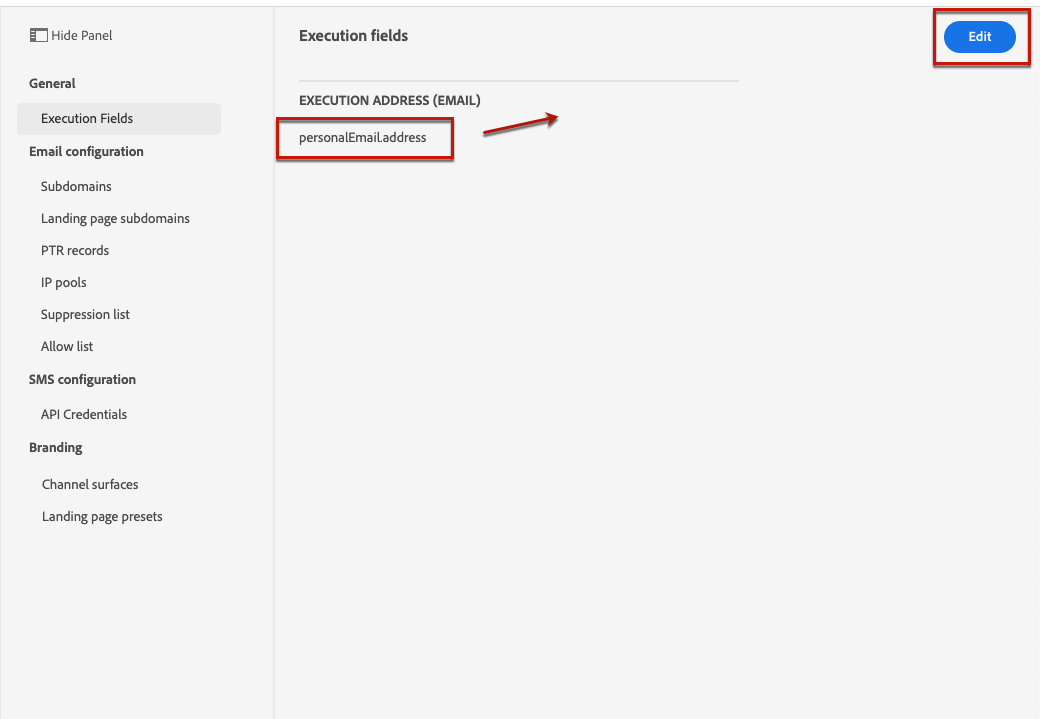
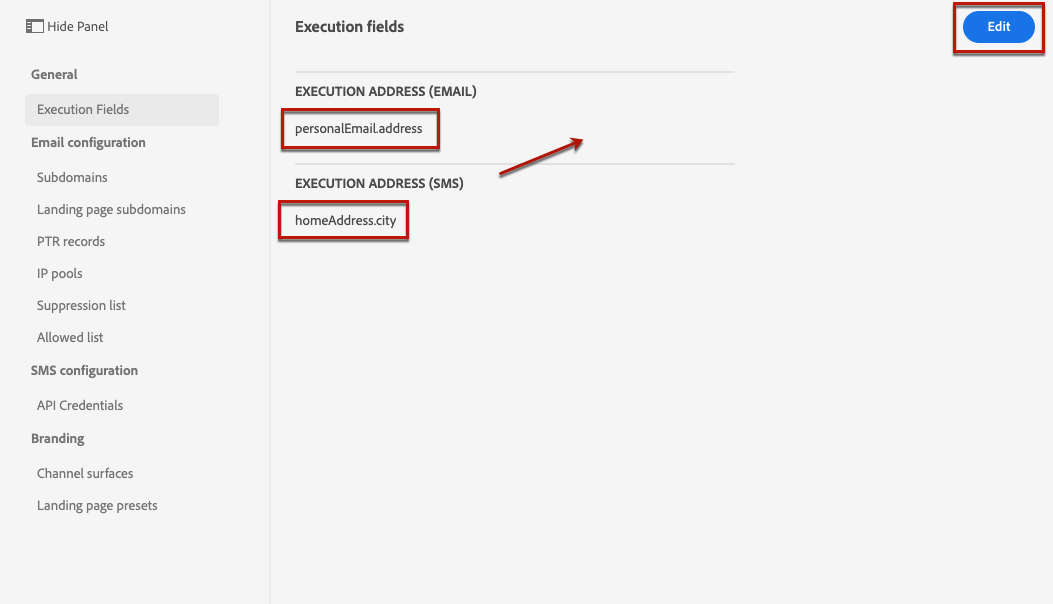
Admin updates august (#949)
* Primary address update for SMS

* Update email-settings.md

* ai-ranking-small-edits

* Update primary-email-addresses.md

diff --git a/help/using/configuration/primary-email-addresses.md b/help/using/configuration/primary-email-addresses.md
@@ -14,30 +14,28 @@ exl-id: fe2f6516-7790-4501-a3a1-3d7cb94d7874
 >title="Define which address to use"
 >abstract="When several addresses are available in the database (personal, professional, etc.), you can choose which address to prioritize for sending."
 
-When you target a profile, several email addresses may be available in the database (personal, professional email address, etc.).
+When you target a profile, several email addresses or phone numbers may be available in the database (professional email address, personal phone number, etc.).
 
-With [!DNL Journey Optimizer], you can determine which email address to use from the profile service and to prioritize when several addresses are available. To do this, follow the steps below.
+With [!DNL Journey Optimizer], you can determine which email address or phone number to use from the profile service and to prioritize when several addresses are available. To do this, follow the steps below.
 
 1. Access the  **[!UICONTROL Channels]** > **[!UICONTROL General]** > **[!UICONTROL Executions fields]** menu.
 
     ![](assets/primary-address-execution-fields.png)
 
-1. The field that is currently used by default to determine the profiles' email addresses displays on this screen. Click **[!UICONTROL Edit]** to change it.
+1. The fields that are currently used by default to determine the profiles' email address and phone number display on this screen. Click **[!UICONTROL Edit]** to change them.
 
     ![](assets/primary-address.png)
 
-1. Click the current field or the edit icon to select a new field.
+1. Click the current field of your choice or the edit icon to select a new field.
 
     ![](assets/primary-address-edit.png)
 
 1. The list of available email-type XDM fields displays. Select the field to use.
 
-    ![](assets/primary-address-field.png)
+    ![](assets/primary-address-select-field.png)
 
 1. Click **[!UICONTROL Save]** to confirm your choice.
 
-    ![](assets/primary-address-save.png)
-
-    The execution field is updated and will now be used as the primary address.
+The execution field is updated and will now be used as the primary address.
     
 <!--1. You can also select an additional field to use as secondary email address. This allows you to determine which field to use if the primary field is empty for a profile. -->

diff --git a/help/using/offers/ranking/create-dataset.md b/help/using/offers/ranking/create-dataset.md
@@ -22,8 +22,11 @@ Before creating an AI model, you need to create a dataset where conversion event
 
     >[!NOTE]
     >
-    >    Learn more on XDM schemas and fields groups in the [XDM System overview documentation](https://experienceleague.adobe.com/docs/experience-platform/xdm/home.html?lang=en).
+    >Learn more on XDM schemas and fields groups in the [XDM System overview documentation](https://experienceleague.adobe.com/docs/experience-platform/xdm/home.html?lang=en){target="_blank"}.
 
+1. From the **[!UICONTROL Field groups]** section on the left, select **[!UICONTROL Add]**.
+
+    ![](../assets/ai-ranking-fields-groups.png)
 
 1. In the **[!UICONTROL Search]** field, type "proposition interaction" and select the **[!UICONTROL Experience Event - Proposition Interactions]** field group.
 
@@ -31,7 +34,7 @@ Before creating an AI model, you need to create a dataset where conversion event
 
     >[!CAUTION]
     >
-    >    The schema that will be used in your dataset must have the **[!UICONTROL Experience Event - Proposition Interactions]** field group associated with it. Otherwise you will not be able to use it in your ranking strategy.
+    >The schema that will be used in your dataset must have the **[!UICONTROL Experience Event - Proposition Interactions]** field group associated with it. Otherwise you will not be able to use it in your ranking strategy.
 
 1. Click **[!UICONTROL Add field groups]**.
 
@@ -39,13 +42,12 @@ Before creating an AI model, you need to create a dataset where conversion event
 
     >[!NOTE]
     >Field group was previously known as mixin.
-    >    
 
-1. Type a name and save the schema.<!--How do you edit the fields in this new schema? Examples?-->
+1. Type a name and save the schema.
 
 >[!NOTE]
 >
->    Learn more on building schemas in [Basics of schema composition](https://experienceleague.adobe.com/docs/experience-platform/xdm/schema/composition.html?lang=en#understanding-schemas).
+>Learn more on building schemas in [Basics of schema composition](https://experienceleague.adobe.com/docs/experience-platform/xdm/schema/composition.html?lang=en#understanding-schemas){target="_blank"}.
 
 You're now ready to create a dataset using this schema. To do this, follow the steps below:
 

diff --git a/help/using/configuration/email-settings.md b/help/using/configuration/email-settings.md
@@ -18,7 +18,7 @@ Define the email settings in the dedicated section of the channel surface (i.e. 
 >[!CONTEXTUALHELP]
 >id="ajo_admin_presets_emailtype"
 >title="Define the email category"
->abstract="Select the type of messages that will be sent when using this surface: Marketing for promotional messages, which require user consent, or Transactional for non-commercial messages, that can also be sent to unsubscribed profiles in specific contexts."
+>abstract="Select the type of emails that will be sent when using this surface: Marketing for promotional emails, which require user consent, or Transactional for non-commercial emails, that can also be sent to unsubscribed profiles in specific contexts."
 
 In the **EMAIL TYPE** section, select the type of message that will be sent with the surface: **Marketing** or **Transactional**.
 
